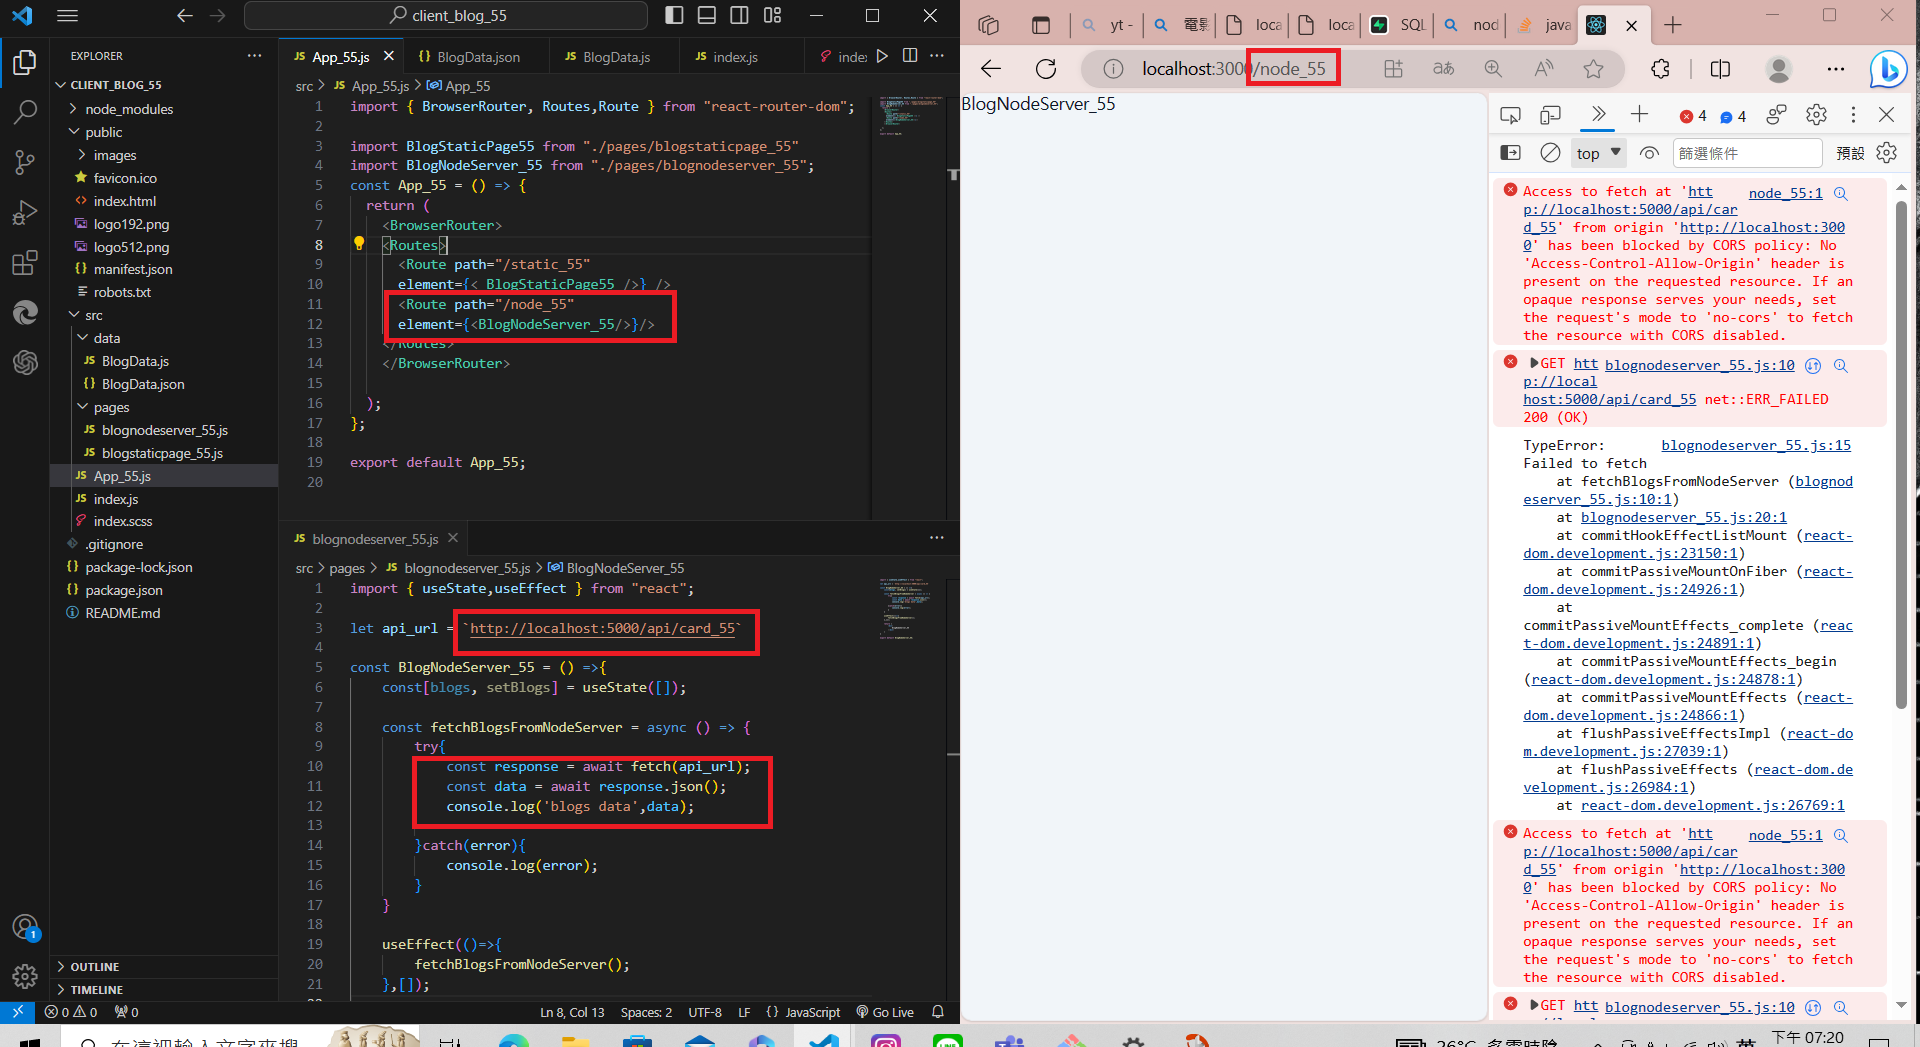
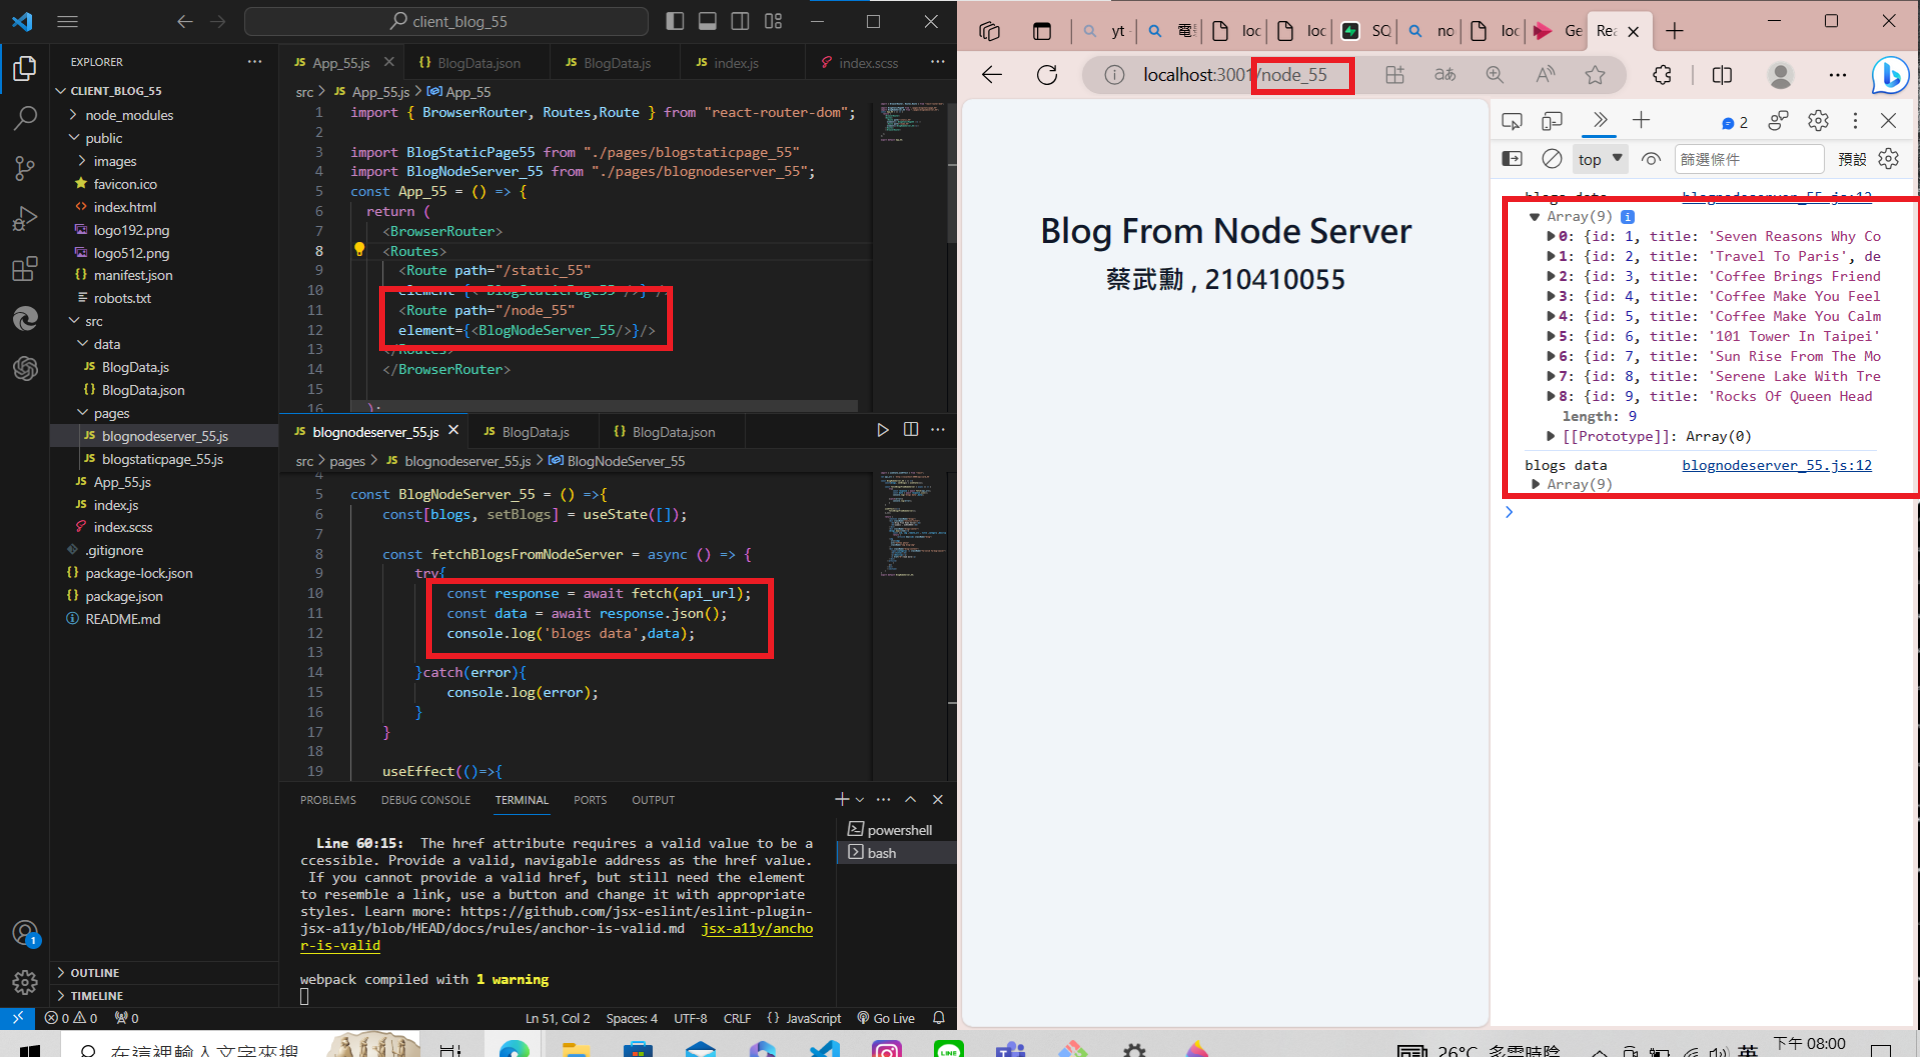
W06-P5: Fetch data from node server via route /node_xx, render all blogs data in webpage

diff --git a/demo/client_blog_55/src/data/BlogData.js b/demo/client_blog_55/src/data/BlogData.js
@@ -20,7 +20,7 @@ const items = [
     title: "Coffee Brings Friendship",
     descrip: "Lorem ipsum dolor sit amet consectetur adipisicing elit.",
     category: "lifestyle",
-    img: "/img/photo-3.jpg",
+    img: "/images/photo-3.jpg",
     remote_url: ""
 },
 {
@@ -28,7 +28,7 @@ const items = [
     title: "Coffee Make You Feel Good",
     descrip: "Lorem ipsum dolor sit amet consectetur adipisicing elit.",
     category: "lifestyle",
-    img: "/img/photo-4.jpg",
+    img: "/images/photo-4.jpg",
     remote_url: ""
 },
 {
@@ -36,7 +36,7 @@ const items = [
     title: "Coffee Make You Calm",
     descrip: "Lorem ipsum dolor sit amet consectetur adipisicing elit.",
     category: "lifestyle",
-    img: "/img/photo-5.jpg",
+    img: "/images/photo-5.jpg",
     remote_url: ""
 },
 {
@@ -44,7 +44,7 @@ const items = [
     title: "101 Tower In Taipei",
     descrip: "Lorem ipsum dolor sit amet consectetur adipisicing elit.",
     category: "travel",
-    img: "/img/photo-6.jpg",
+    img: "/images/photo-6.jpg",
     remote_url: ""
 },
 {
@@ -52,7 +52,7 @@ const items = [
     title: "Sun Rise From The Mountain",
     descrip: "Lorem ipsum dolor sit amet consectetur adipisicing elit.",
     category: "travel",
-    img: "/img/photo-7.jpg",
+    img: "/images/photo-7.jpg",
     remote_url: ""
 },
 {
@@ -60,7 +60,7 @@ const items = [
     title: "Serene Lake With Trees",
     descrip: "Lorem ipsum dolor sit amet consectetur adipisicing elit.",
     category: "travel",
-    img: "/img/photo-8.jpg",
+    img: "/images/photo-8.jpg",
     remote_url: ""
 },
 {
@@ -68,7 +68,7 @@ const items = [
     title: "Rocks Of Queen Head In Yehliu Taiwan",
     descrip: "Lorem ipsum dolor sit amet consectetur adipisicing elit.",
     category: "travel",
-    img: "/img/photo-9.jpg",
+    img: "/images/photo-9.jpg",
     remote_url :""
 }
 ]

diff --git a/demo/client_blog_55/src/pages/blognodeserver_55.js b/demo/client_blog_55/src/pages/blognodeserver_55.js
@@ -10,7 +10,9 @@ const BlogNodeServer_55 = () =>{
             const response = await fetch(api_url);
             const data = await response.json();
             console.log('blogs data',data);
-            
+            setBlogs(data);
+            //利用setBlogs將陣列储存起來
+
         }catch(error){
             console.log(error);
         }
@@ -21,10 +23,32 @@ const BlogNodeServer_55 = () =>{
     },[]);
 
     return (
-        <div>
-            BlogNodeServer_55
+        <section className="blogs">
+        <div className="section-title">
+          <h2>Blog From Node Server</h2>
+          <h3>蔡武勳 , 210410055</h3>
         </div>
+        <div className="blogs-center">     
+        {blogs.map((item)=>{
+            const {id, img ,remote_url , title ,category ,descrip} = item;
+            return (
+                <article key={id} className="blog">
+        <img
+          src={img}
+          alt="Coffee photo"
+          className="img blog-img"
+        />
+        <div className="blog-content">
+          <span>{category} <i className="fa-solid fa-mug-saucer"></i></span>
+          <h3>{title}</h3>
+          <p>{descrip}</p>
+          <a href="#">read more</a>
+        </div>
+      </article>
+            )
+        })}
+      </div>
+      </section>
     )
 }
-
 export default BlogNodeServer_55;

diff --git a/demo/w05_55_blog/server.js b/demo/w05_55_blog/server.js
@@ -12,12 +12,16 @@ dotenv.config();
 
 import db from "./until/database.js"
 
+import cors from "cors"
+
 app.use(express.json());
 app.use(express.urlencoded({extended: true}));
 app.use(logger('dev'));
 
 app.use(express.static('public'));
 app.set('view engine','ejs');
+
+app.use(cors());
 
 // app.use('/',(req,res,next) => {
 //     //res.send('Hello');

diff --git a/md/w06/w06.md b/md/w06/w06.md
@@ -9,3 +9,11 @@
 ### W06-P3: use route /static_xx to show <BlogStaticPage_xx />
  
 ![](w06-p3.png)
+
+### W06-P4: Fetch data from node server via route /node_xx, show data in console.log
+ 
+![](w06-p4.png)
+
+### W06-P5: Fetch data from node server via route /node_xx, render all blogs data in webpage
+ 
+![](w06-p5.png)
